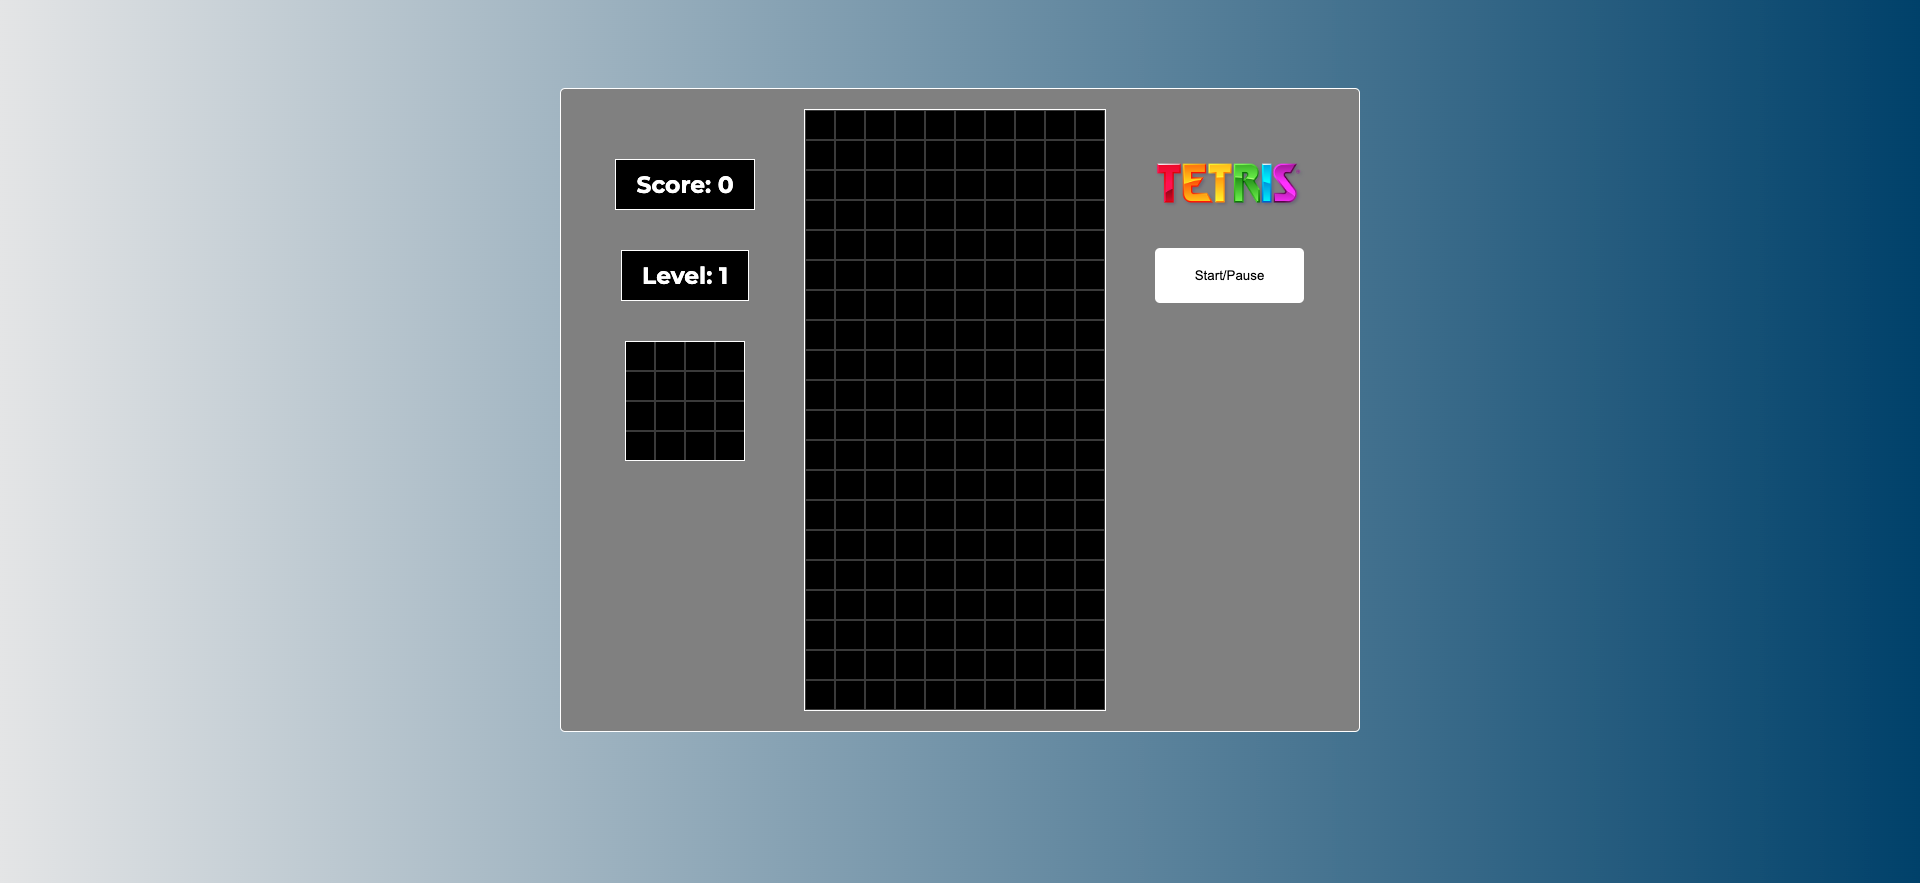
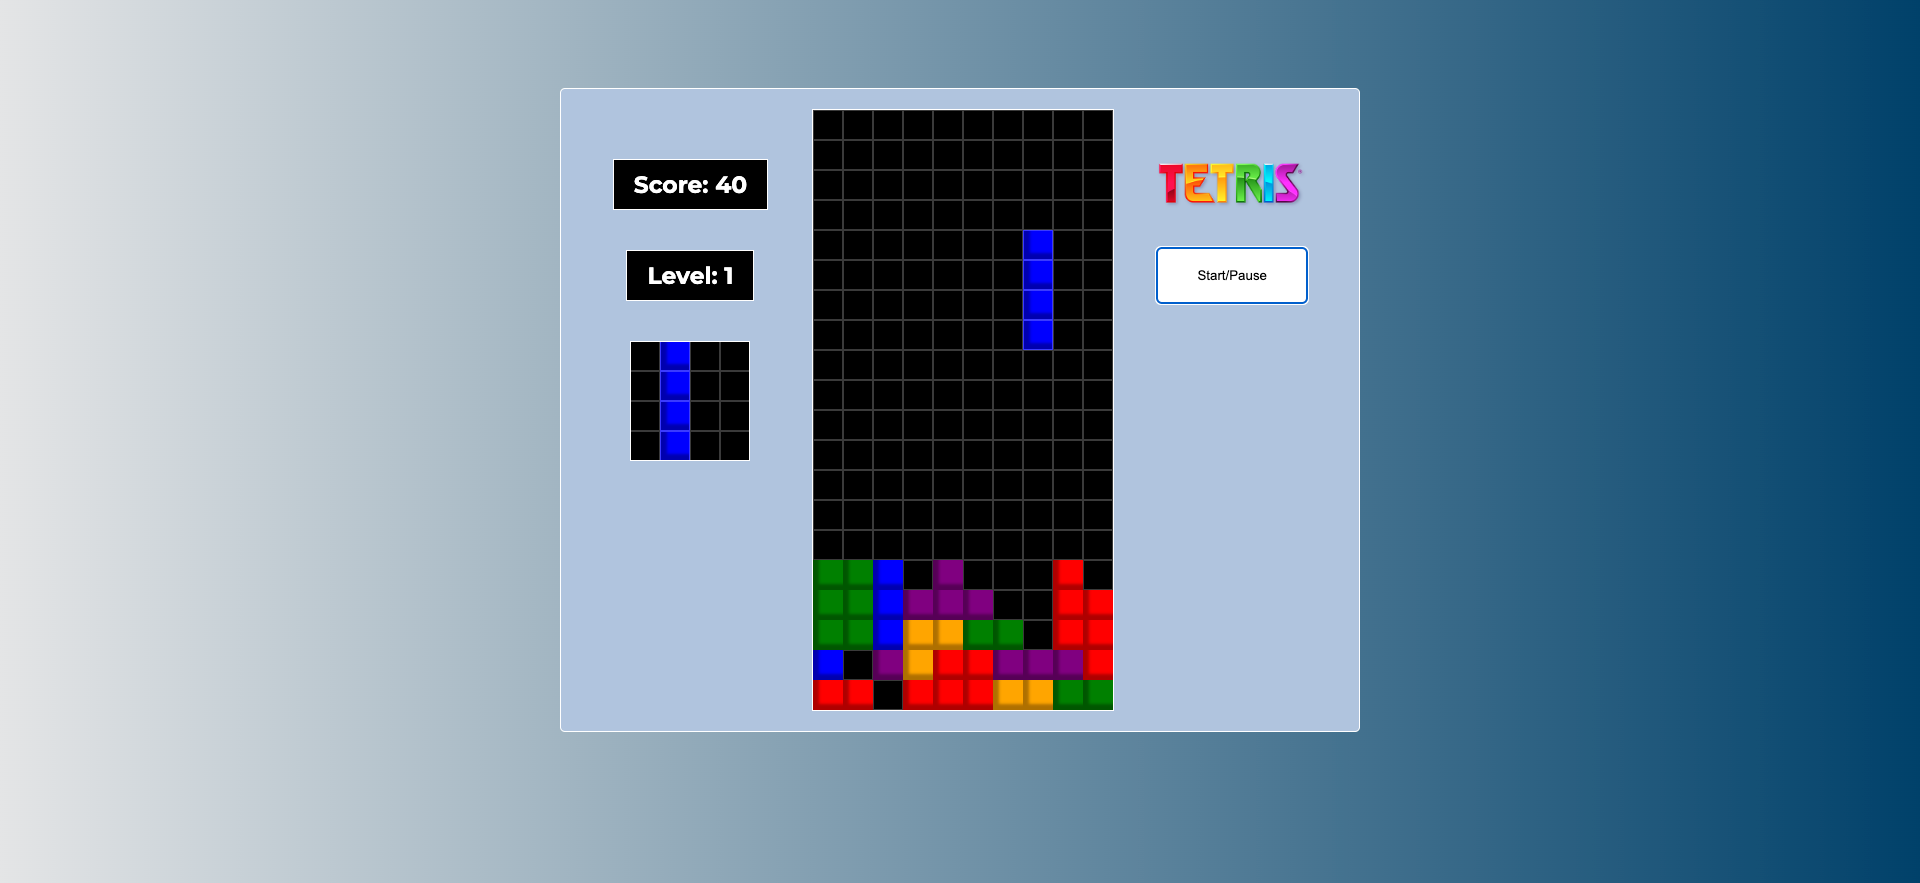
Styles: Changed Background Color

Changed region(s): [[0.2812, 0.0917, 0.7188, 0.8256]]

diff --git a/css/style.css b/css/style.css
@@ -2334,7 +2334,7 @@ a:not([class]) {
   margin-top: 10vh;
   width: 800px;
   border: 1px solid white;
-  background-color: #808080;
+  background-color: lightsteelblue;
   border-radius: 0.5rem;
   padding: 2rem;
   display: flex;

diff --git a/sass/main.css b/sass/main.css
@@ -2352,7 +2352,7 @@ a:not([class]) {
   margin-top: 10vh;
   width: 800px;
   border: 1px solid white;
-  background-color: #808080;
+  background-color: lightsteelblue;
   border-radius: 0.5rem;
   padding: 2rem;
   display: flex;

diff --git a/sass/layout/_screen.scss b/sass/layout/_screen.scss
@@ -4,7 +4,7 @@
   margin-top: 10vh;
   width: 800px;
   border: 1px solid white;
-  background-color: #808080;
+  background-color: lightsteelblue;
   border-radius: 0.5rem;
   padding: 2rem;
 
